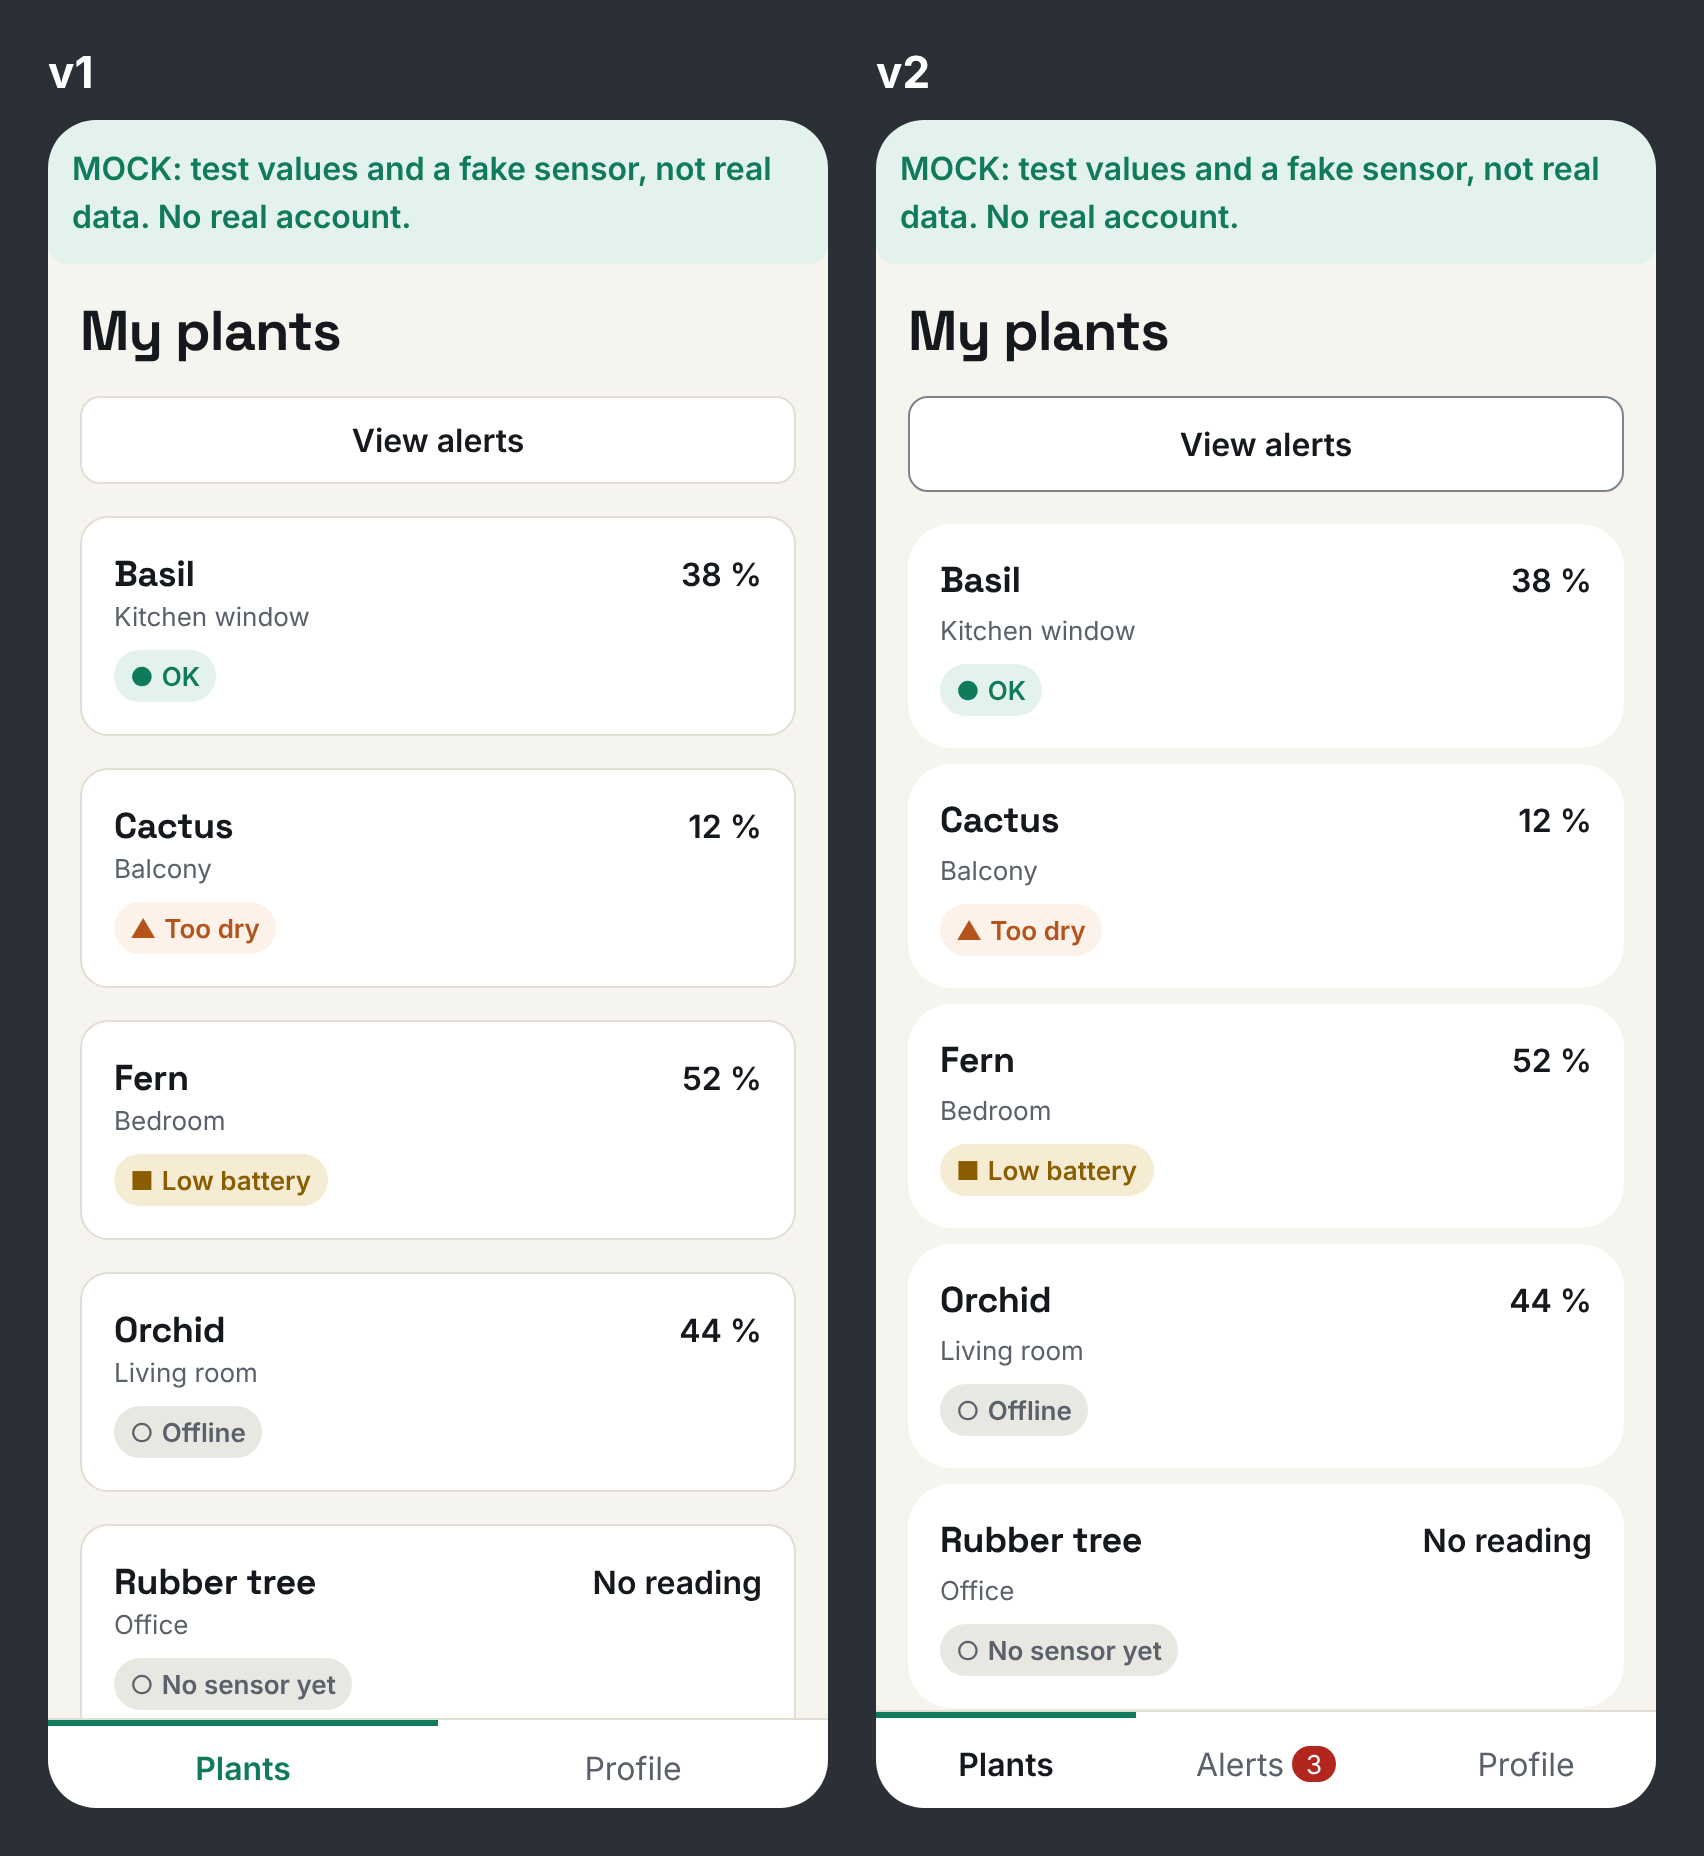
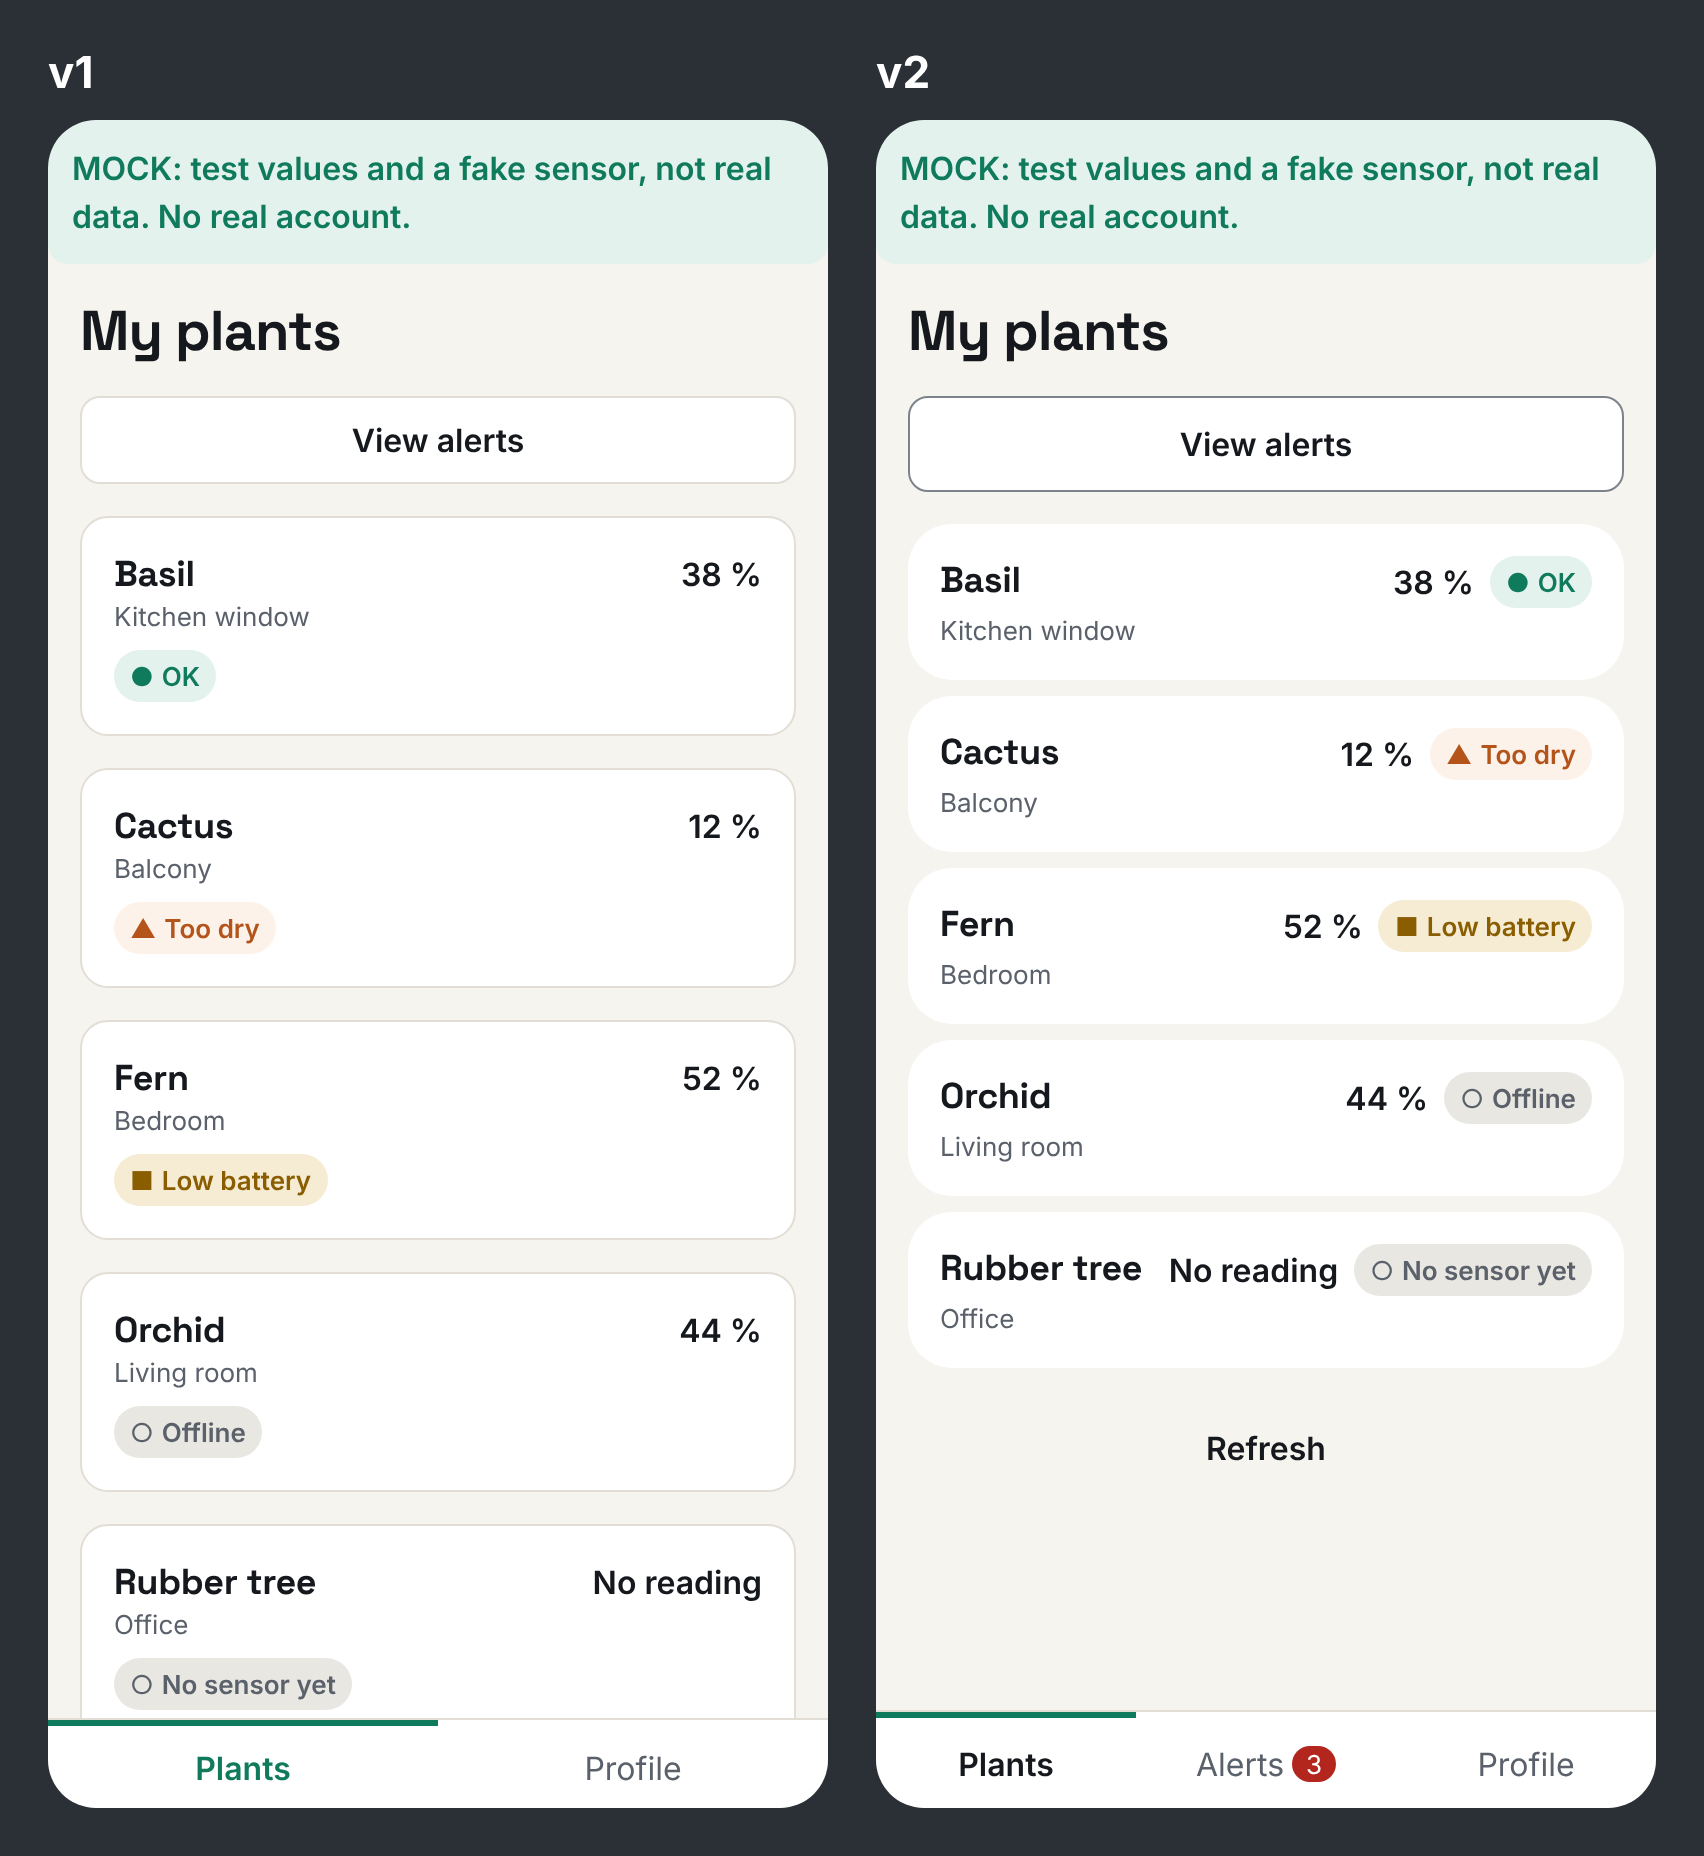
Restyle group 1 on the v2 design: status word beside the plant number (list and detail hero); Photos is the primary action on plant detail; before and after renders
Claude-Session: https://claude.ai/code/session_01W3bSqBd8nqtrn2oVzxrJYm

diff --git a/projects/plant-monitor/app/src/screens/PlantDetailScreen.tsx b/projects/plant-monitor/app/src/screens/PlantDetailScreen.tsx
@@ -45,11 +45,15 @@ export function PlantDetailScreen({ plantId, onBack, onRemove, onGallery, now = 
       {p ? (
         <>
           <PlantMeta plant={p} />
-          <Row wrap>{plantChips(p).map((c) => <StatusChip key={c} kind={c} />)}</Row>
           <Caption>{t(age.key, age.n === undefined ? undefined : { n: age.n })}</Caption>
+          {/* hero reading: the soil value with its status word beside it; the other readings follow in the grid */}
+          <Row between wrap>
+            <Type variant="number">{fmt(l?.moisturePct, 0) === null ? t('plant.latest.none') : t('plant.latest.soilValue', { value: fmt(l?.moisturePct, 0) ?? '' })}</Type>
+            <Row gap="xs">{plantChips(p).map((c) => <StatusChip key={c} kind={c} />)}</Row>
+          </Row>
+          <Caption>{t('plant.reading.soilLabel')}</Caption>
           <SectionTitle>{t('plant.latest.title')}</SectionTitle>
           <Row wrap>
-            {cell('plant.latest.soil', 'plant.latest.soilValue', fmt(l?.moisturePct, 0))}
             {cell('plant.latest.temp', 'plant.latest.tempValue', fmt(l?.tempC, 1))}
             {cell('plant.latest.humidity', 'plant.latest.humidityValue', fmt(l?.rhPct, 0))}
             {cell('plant.latest.light', 'plant.latest.lightValue', fmt(l?.lux, 0))}
@@ -57,7 +61,7 @@ export function PlantDetailScreen({ plantId, onBack, onRemove, onGallery, now = 
           </Row>
           <MoistureChart points={detail.hourly} dry={p.dryThresholdPct} wet={p.wetThresholdPct} />
           <HourlyTable points={detail.hourly} />
-          <Button label={t('plant.photos.button')} variant="secondary" onPress={() => onGallery(p)} />
+          <Button label={t('plant.photos.button')} variant="primary" onPress={() => onGallery(p)} />
           <Button label={t('plant.remove.button')} variant="danger" onPress={() => onRemove(detail)} />
         </>
       ) : null}

diff --git a/projects/plant-monitor/app/src/screens/PlantsScreen.tsx b/projects/plant-monitor/app/src/screens/PlantsScreen.tsx
@@ -54,9 +54,11 @@ function PlantRow({ plant, onOpen }: { plant: PlantSummary; onOpen: () => void }
             <Type variant="h3" flex>{plant.name}</Type>
             <Caption>{plant.area ?? t('plants.noArea')}</Caption>
           </Column>
-          <Type variant="bodyStrong">{value}</Type>
+          <Row gap="sm" wrap>
+            <Type variant="bodyStrong">{value}</Type>
+            {chips.map((c) => <StatusChip key={c} kind={c} />)}
+          </Row>
         </Row>
-        <Row wrap>{chips.map((c) => <StatusChip key={c} kind={c} />)}</Row>
       </Card>
     </Pressable>
   );
